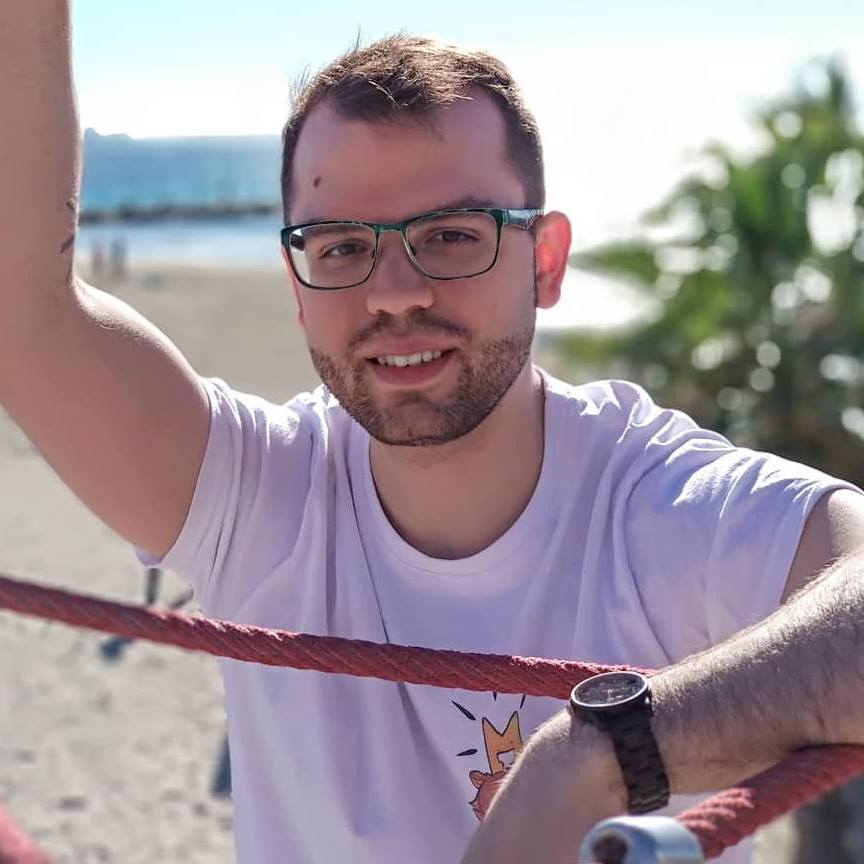
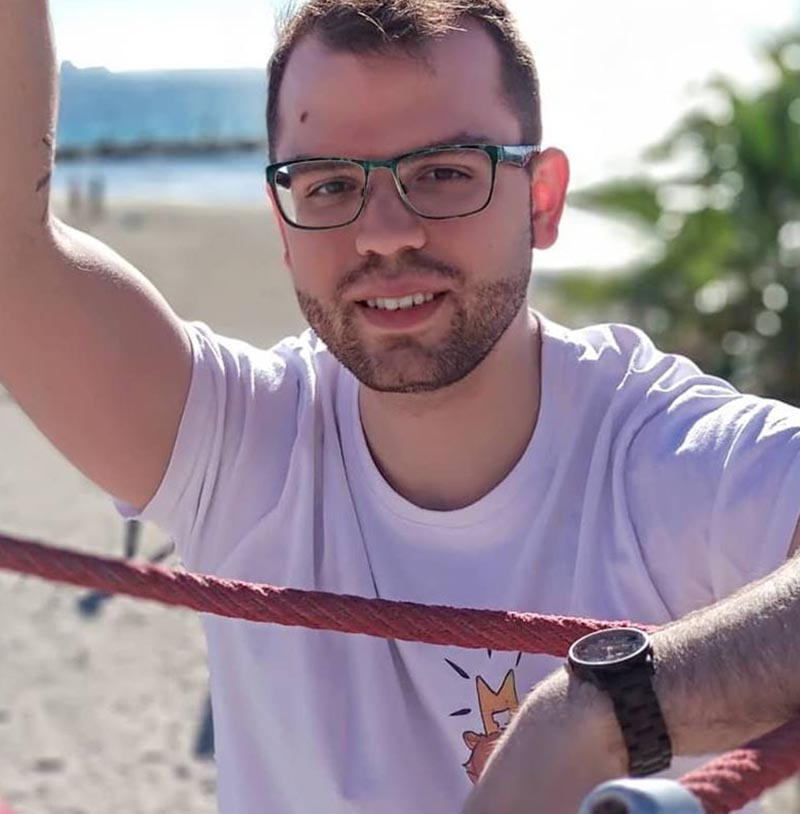
Better photo & opacity

diff --git a/assets/css/main.css b/assets/css/main.css
@@ -354,7 +354,7 @@ a:hover
 
 	100%
 	{
-		opacity: 1;
+		opacity: 0.25;
 	}
 }
 
@@ -367,7 +367,7 @@ a:hover
 
 	100%
 	{
-		opacity: 1;
+		opacity: 0.25;
 	}
 }
 
@@ -380,7 +380,7 @@ a:hover
 
 	100%
 	{
-		opacity: 1;
+		opacity: 0.25;
 	}
 }
 
@@ -393,7 +393,7 @@ a:hover
 
 	100%
 	{
-		opacity: 1;
+		opacity: 0.25;
 	}
 }
 
